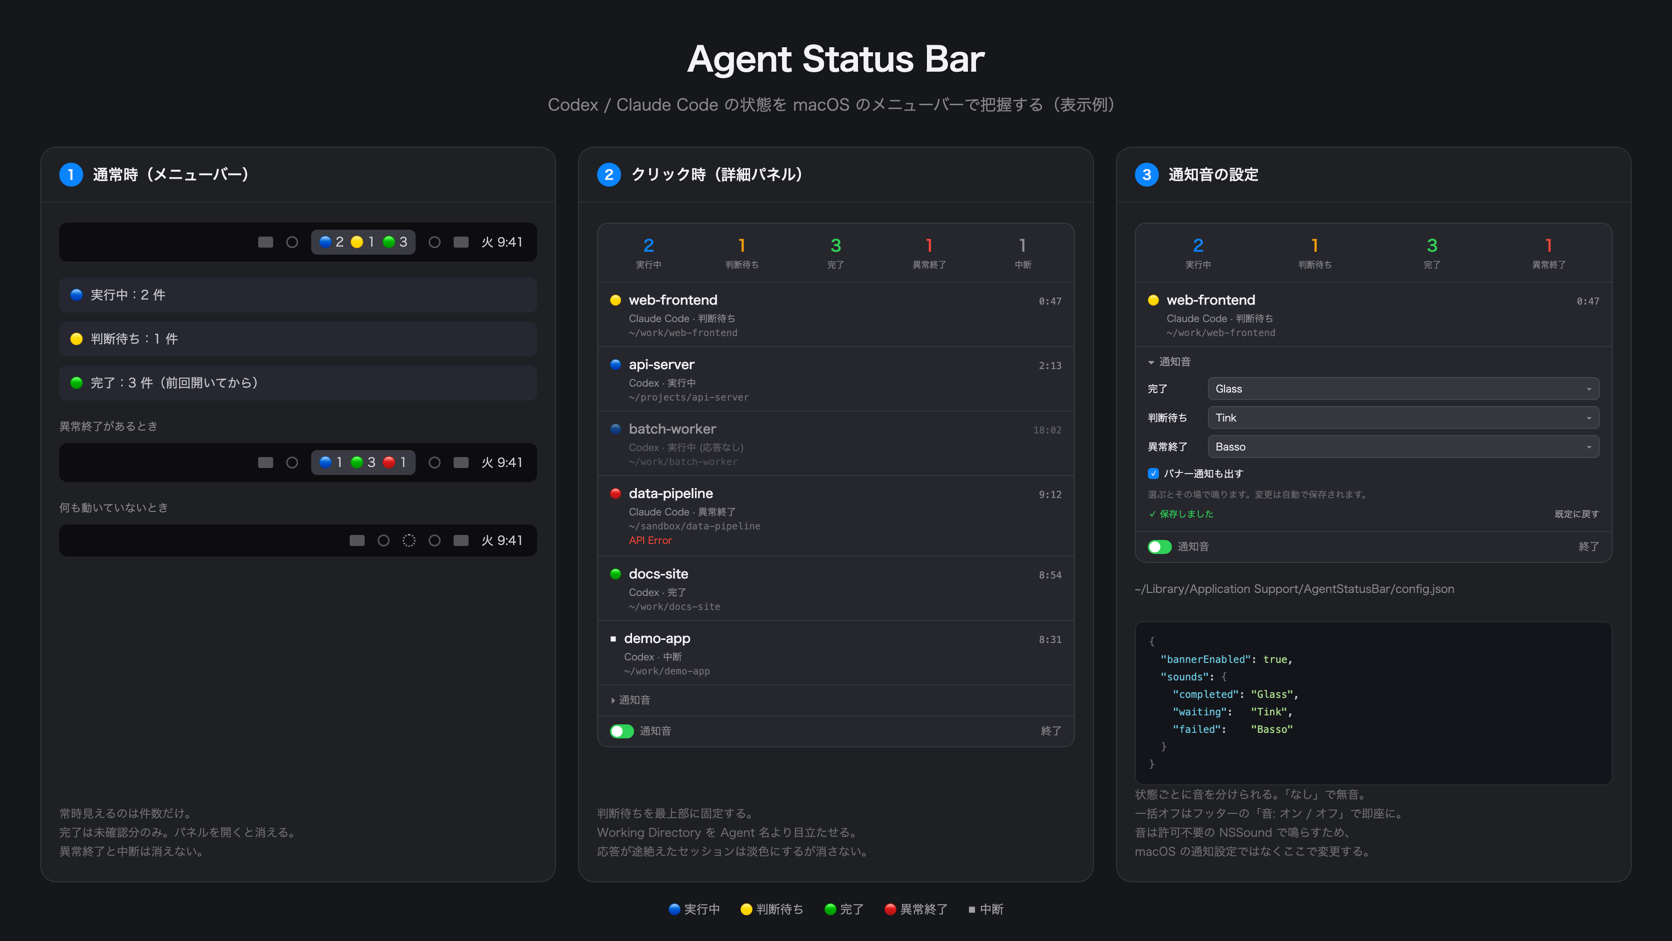
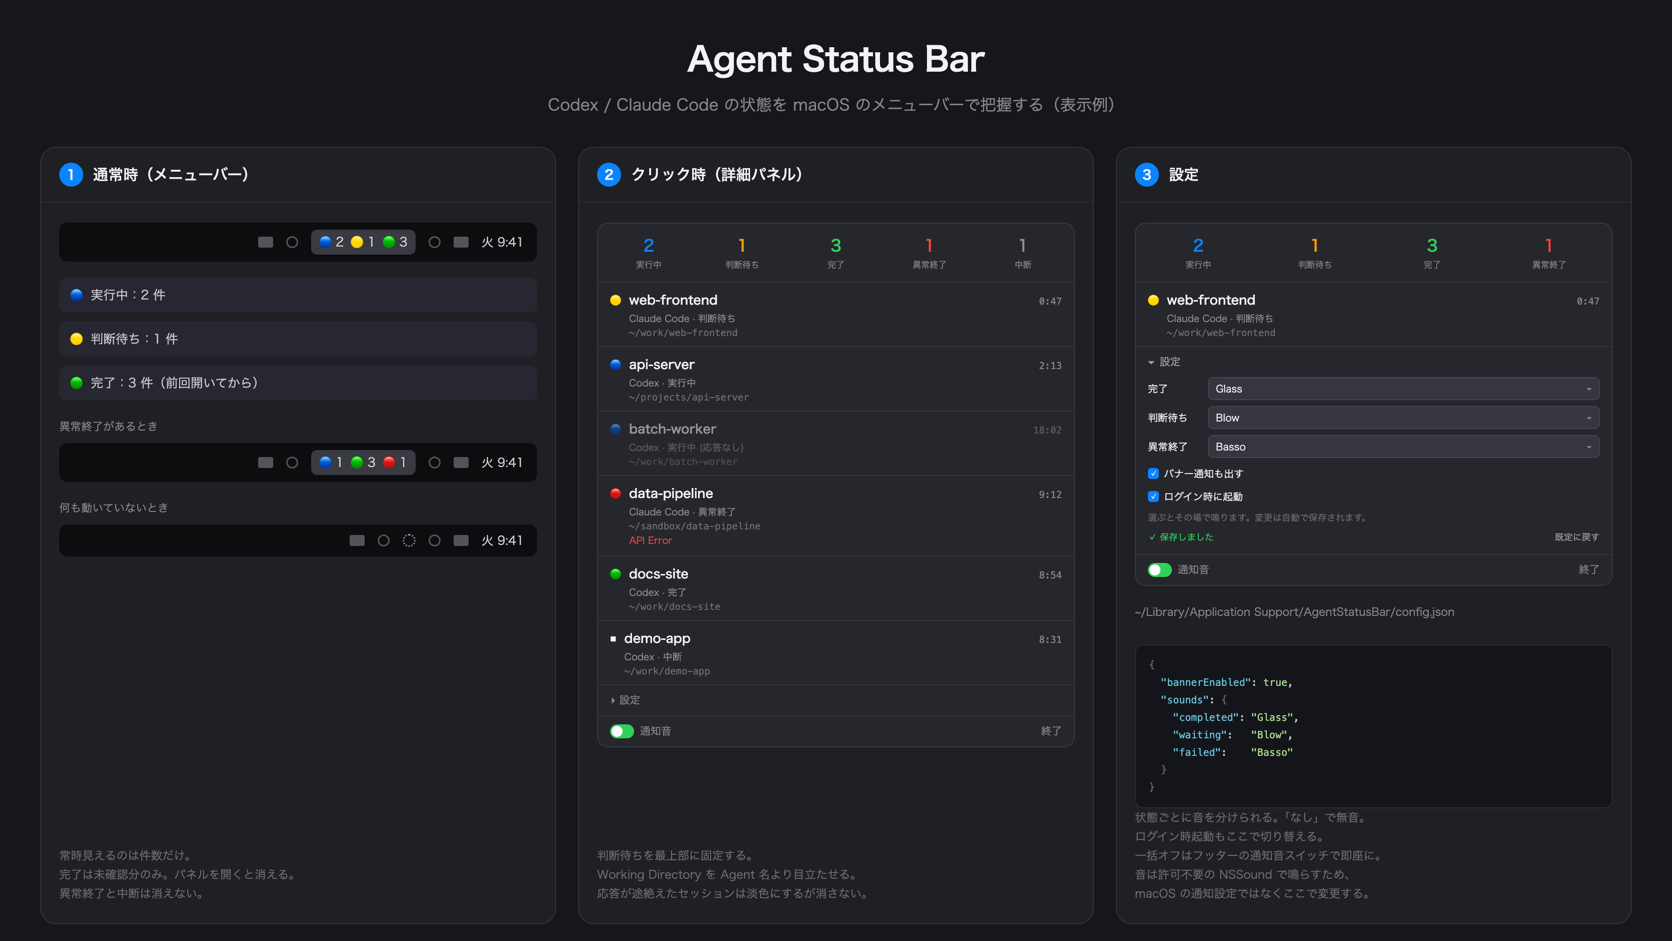
feat: ログイン時の自動起動と /Applications へのインストールを追加する
`SMAppService` でアプリ自身をログイン項目に登録する。設定パネルの
チェックボックスから切り替える。

状態は OS 側が保持するため config.json には持たない。二重管理にすると
「設定では ON なのに実際は起動しない」という食い違いが起きるため。
登録に失敗した場合と、システム設定での許可が必要な場合は、
その旨をパネル内に表示する。

ログイン項目は登録時の .app の場所を記憶する。make-app.sh はビルドごとに
build/ の .app を作り直すため、そこを指すと再ビルドで壊れる。
固定の場所へ配置する Scripts/install.sh を追加した。

あわせて判断待ちの既定音を Tink から Blow に変更する。
設定セクションの見出しは音以外の項目も含むようになったため「設定」にした。

diff --git a/Sources/AgentStatusBarApp/SettingsSection.swift b/Sources/AgentStatusBarApp/SettingsSection.swift
@@ -17,7 +17,7 @@ struct SettingsSection: View {
                 HStack(spacing: 5) {
                     Image(systemName: expanded ? "chevron.down" : "chevron.right")
                         .font(.system(size: 8, weight: .semibold))
-                    Text("通知音")
+                    Text("設定")
                         .font(.system(size: 11))
                     Spacer()
                 }
@@ -43,6 +43,30 @@ struct SettingsSection: View {
                     }
                     .toggleStyle(.checkbox)
                     .padding(.top, 2)
+
+                    Toggle(isOn: Binding(
+                        get: { model.launchesAtLogin },
+                        set: { model.setLaunchesAtLogin($0) }
+                    )) {
+                        Text("ログイン時に起動")
+                            .font(.system(size: 10))
+                    }
+                    .toggleStyle(.checkbox)
+
+                    if model.loginItemNeedsApproval {
+                        Label(
+                            "システム設定 > 一般 > ログイン項目 で許可してください",
+                            systemImage: "exclamationmark.triangle.fill"
+                        )
+                        .font(.system(size: 9))
+                        .foregroundStyle(.orange)
+                    }
+                    if let error = model.loginItemError {
+                        Text(error)
+                            .font(.system(size: 9))
+                            .foregroundStyle(.red)
+                            .lineLimit(2)
+                    }
 
                     if model.isMuted {
                         // 音を選んでも鳴らない状態を、ここでも分かるようにする

diff --git a/Sources/ASBAdapters/Outbound/LoginItem.swift b/Sources/ASBAdapters/Outbound/LoginItem.swift
@@ -1,0 +1,44 @@
+import Foundation
+import ServiceManagement
+import ASBApplication
+
+/// `SMAppService` によるログイン項目の登録。
+///
+/// アプリ自身が登録するため、ユーザーがシステム設定を開いて追加する必要がない。
+///
+/// **登録されるのは実行中の `.app` の場所である。** `build/` の中から起動している場合、
+/// 再ビルドで `.app` が作り直されるとログイン項目が壊れる。
+/// `/Applications` などの固定の場所に置いてから有効にすること。
+public struct SMLoginItem: LoginItemController {
+
+    public init() {}
+
+    public var isEnabled: Bool {
+        SMAppService.mainApp.status == .enabled
+    }
+
+    /// macOS が「ログイン項目として登録されたが、ユーザーの許可待ち」と判断している状態。
+    /// この場合はシステム設定 > 一般 > ログイン項目 で有効にしてもらう必要がある。
+    public var needsApproval: Bool {
+        SMAppService.mainApp.status == .requiresApproval
+    }
+
+    public func setEnabled(_ enabled: Bool) throws {
+        if enabled {
+            try SMAppService.mainApp.register()
+        } else {
+            try SMAppService.mainApp.unregister()
+        }
+    }
+
+    /// 診断用。状態をそのまま文字列で返す。
+    public var statusDescription: String {
+        switch SMAppService.mainApp.status {
+        case .enabled: return "enabled"
+        case .notRegistered: return "notRegistered"
+        case .notFound: return "notFound"
+        case .requiresApproval: return "requiresApproval"
+        @unknown default: return "unknown"
+        }
+    }
+}

diff --git a/Sources/AgentStatusBarApp/SettingsModel.swift b/Sources/AgentStatusBarApp/SettingsModel.swift
@@ -19,15 +19,40 @@ final class SettingsModel {
 
     private let store: SettingsStore
     private let catalog: SoundCatalog
+    private let loginItem: LoginItemController
 
     /// 「なし」を表す選択肢。`config.json` 上は `"none"` になる。
     static let silentLabel = "なし"
 
-    init(store: SettingsStore, catalog: SoundCatalog) {
+    init(store: SettingsStore, catalog: SoundCatalog, loginItem: LoginItemController) {
         self.store = store
         self.catalog = catalog
+        self.loginItem = loginItem
         self.settings = store.current()
         self.soundNames = catalog.names
+        self.launchesAtLogin = loginItem.isEnabled
+        self.loginItemNeedsApproval = loginItem.needsApproval
+    }
+
+    // MARK: - ログイン時に起動
+
+    /// OS 側が持つ状態のミラー。`config.json` には保存しない。
+    private(set) var launchesAtLogin: Bool = false
+    /// システム設定での許可待ちか。
+    private(set) var loginItemNeedsApproval: Bool = false
+    private(set) var loginItemError: String?
+
+    func setLaunchesAtLogin(_ enabled: Bool) {
+        do {
+            try loginItem.setEnabled(enabled)
+            loginItemError = nil
+        } catch {
+            loginItemError = error.localizedDescription
+        }
+        // 成否にかかわらず OS の実際の状態を読み直す
+        launchesAtLogin = loginItem.isEnabled
+        loginItemNeedsApproval = loginItem.needsApproval
+        flashSaved()
     }
 
     /// 選択された音を保存し、その場で鳴らして確認できるようにする。

diff --git a/Tests/ASBApplicationTests/AppSettingsTests.swift b/Tests/ASBApplicationTests/AppSettingsTests.swift
@@ -10,7 +10,7 @@ final class AppSettingsTests: XCTestCase {
     func testDefaultsDifferentiateEachState() {
         let sounds = AppSettings.default.sounds
         XCTAssertEqual(sounds.completed, "Glass")
-        XCTAssertEqual(sounds.waiting, "Tink")
+        XCTAssertEqual(sounds.waiting, "Blow")
         XCTAssertEqual(sounds.failed, "Basso")
         XCTAssertEqual(
             Set([sounds.completed, sounds.waiting, sounds.failed]).count, 3,
@@ -79,7 +79,7 @@ final class AppSettingsResetTests: XCTestCase {
 
         // 「既定に戻す」は AppSettings.default をそのまま保存する操作である
         XCTAssertEqual(AppSettings.default.sounds.completed, "Glass")
-        XCTAssertEqual(AppSettings.default.sounds.waiting, "Tink")
+        XCTAssertEqual(AppSettings.default.sounds.waiting, "Blow")
         XCTAssertEqual(AppSettings.default.sounds.failed, "Basso")
         XCTAssertTrue(AppSettings.default.bannerEnabled)
     }
@@ -112,7 +112,7 @@ final class MuteTests: XCTestCase {
         }
         // 個別の設定は保持されている
         XCTAssertEqual(settings.sounds.completed, "Glass")
-        XCTAssertEqual(settings.sounds.waiting, "Tink")
+        XCTAssertEqual(settings.sounds.waiting, "Blow")
         XCTAssertEqual(settings.sounds.failed, "Basso")
     }
 

diff --git a/Sources/AgentStatusBarApp/AgentStatusBarApp.swift b/Sources/AgentStatusBarApp/AgentStatusBarApp.swift
@@ -13,6 +13,7 @@ final class Composition {
     let service: AgentStatusService
     let settingsStore: SettingsStore
     let soundCatalog: SoundCatalog
+    let loginItem: LoginItemController
     private let eventSource: AgentEventSource
     private var tickTask: Task<Void, Never>?
 
@@ -32,6 +33,7 @@ final class Composition {
         let settings = FileSettingsStore()
         settingsStore = settings
         soundCatalog = SystemSoundCatalog()
+        loginItem = SMLoginItem()
         service = AgentStatusService(
             clock: clock,
             probe: SignalProcessProbe(),
@@ -85,7 +87,8 @@ struct AgentStatusBarApp: App {
         _model = State(initialValue: StatusModel(service: composition.service))
         _settings = State(initialValue: SettingsModel(
             store: composition.settingsStore,
-            catalog: composition.soundCatalog
+            catalog: composition.soundCatalog,
+            loginItem: composition.loginItem
         ))
     }
 

diff --git a/Sources/ASBApplication/Ports/Ports.swift b/Sources/ASBApplication/Ports/Ports.swift
@@ -19,6 +19,18 @@ public protocol ProcessProbe: Sendable {
     func isAlive(_ pid: ProcessID) -> Bool
 }
 
+/// ログイン時の自動起動。
+///
+/// 状態は OS 側が保持するため、`config.json` には持たない。
+/// 二重管理になると「設定では ON なのに実際は起動しない」という食い違いが起きる。
+public protocol LoginItemController: Sendable {
+    /// 登録済みで有効か。
+    var isEnabled: Bool { get }
+    /// 登録はされたが、ユーザーがシステム設定で許可する必要がある状態か。
+    var needsApproval: Bool { get }
+    func setEnabled(_ enabled: Bool) throws
+}
+
 /// 通知。`gone` への遷移（中断）では呼ばれない。
 /// ターミナルを閉じるたびに通知が飛ぶのを避けるため。
 public protocol Notifier: Sendable {

diff --git a/Sources/ASBApplication/AppSettings.swift b/Sources/ASBApplication/AppSettings.swift
@@ -13,7 +13,7 @@ public struct AppSettings: Sendable, Equatable, Codable {
         /// 異常終了。完了と聞き分けられる音にする。
         public var failed: String?
 
-        public init(completed: String? = "Glass", waiting: String? = "Tink", failed: String? = "Basso") {
+        public init(completed: String? = "Glass", waiting: String? = "Blow", failed: String? = "Basso") {
             self.completed = completed
             self.waiting = waiting
             self.failed = failed

diff --git a/README.md b/README.md
@@ -132,7 +132,7 @@ node Scripts/setup-hooks.js --status      # 登録状態を確認する
   "bannerEnabled": true,
   "sounds": {
     "completed": "Glass",
-    "waiting": "Tink",
+    "waiting": "Blow",
     "failed": "Basso"
   }
 }
